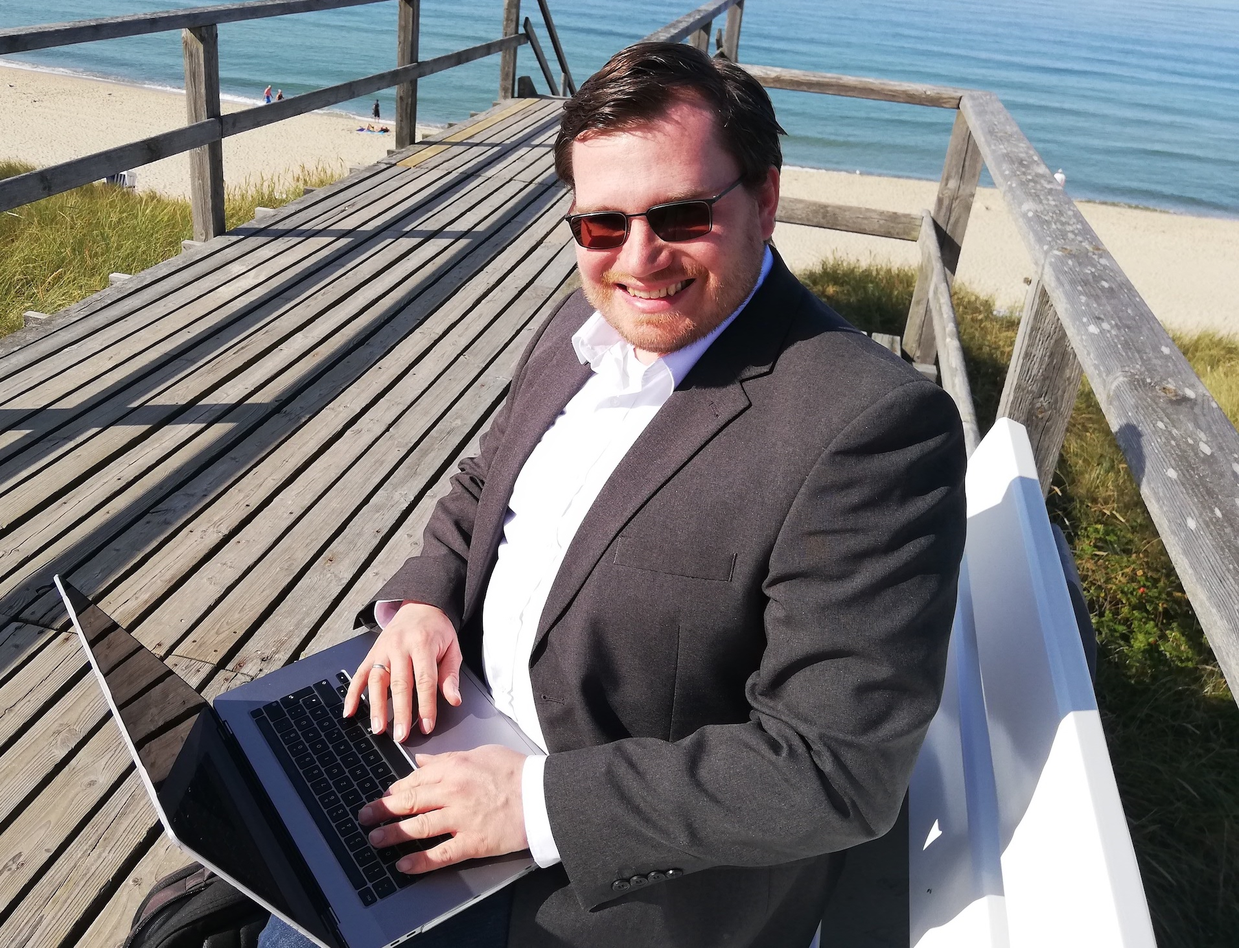
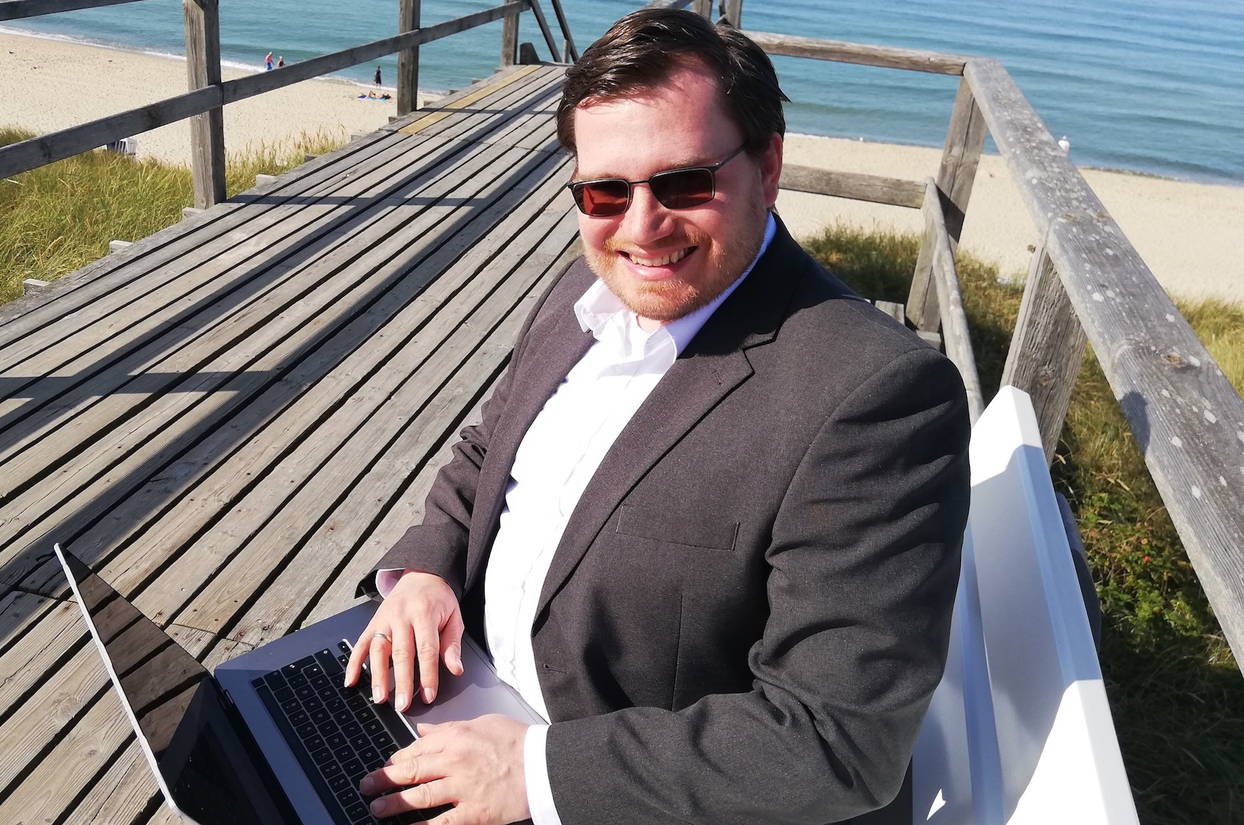
Improvements mainly for seo and accessibility

diff --git a/en/index.html b/en/index.html
@@ -5,7 +5,7 @@
   <meta charset="utf-8">
   <meta content="width=device-width, initial-scale=1.0" name="viewport">
   <title>David A J Lee BSc(Hons) PhD</title>
-  <meta content="" name="description">
+  <meta name="description" content="Originally from Scotland, I moved to Germany in 2010. Since 2018, I have dual nationality. I graduated with a PhD in Computing Science in 2010 building upon a BSc(Hons) in Computing for Business and E-Commerce from 2006. I am a software developer, architect, product owner and team lead/coach with +19 years of experience in software development from requirements through an initial concept and minimum viable products to a great product for the customer. I believe in developing others to reach their potential through coaching and leadership roles.">
   <meta content="" name="keywords">
 
   <!-- Favicons -->
@@ -45,10 +45,10 @@
     </a>
 
     <div class="social-links text-center">
-      <a href="https://www.github.com/daveajlee" class="github"><i class="bi bi-github"></i></a>
-      <a href="https://open.spotify.com/show/0rmI1Y4Cgk0c8YqhV5MjoM" class="spotify"><i class="bi bi-spotify"></i></a>
-      <a href="https://www.youtube.com/channel/UCAvevAq4cnQTxbGsQKL3YSw" class="youtube"><i class="bi bi-youtube"></i></a>
-      <a href="https://de.linkedin.com/in/david-lee-995a64b4" class="linkedin"><i class="bi bi-linkedin"></i></a>
+      <a href="https://www.github.com/daveajlee" aria-label="GitHub Profile" class="github"><i class="bi bi-github"></i></a>
+      <a href="https://open.spotify.com/show/0rmI1Y4Cgk0c8YqhV5MjoM" aria-label="Spotify Profile" class="spotify"><i class="bi bi-spotify"></i></a>
+      <a href="https://www.youtube.com/channel/UCAvevAq4cnQTxbGsQKL3YSw" aria-label="YouTube Profile" class="youtube"><i class="bi bi-youtube"></i></a>
+      <a href="https://de.linkedin.com/in/david-lee-995a64b4" aria-label="LinkedIn Profile" class="linkedin"><i class="bi bi-linkedin"></i></a>
     </div>
 
     <nav id="navmenu" class="navmenu">
@@ -97,7 +97,7 @@
     <!-- Hero Section -->
     <section id="hero" class="hero section dark-background">
 
-      <img src="../common/assets/img/hero-bg.jpg" alt="" data-aos="fade-in" class="">
+      <img src="../common/assets/img/hero-bg-main.jpg" alt="" data-aos="fade-in" class="">
 
       <div class="container" data-aos="fade-up" data-aos-delay="100">
         <h2>David A J Lee BSc(Hons) PhD</h2>
@@ -231,21 +231,21 @@
             <div class="progress">
               <span class="skill"><span>Java & Spring Framework</span> <i class="val">100%</i></span>
               <div class="progress-bar-wrap">
-                <div class="progress-bar" role="progressbar" aria-valuenow="100" aria-valuemin="0" aria-valuemax="100"></div>
+                <div class="progress-bar" role="progressbar" aria-label="Java & Spring Framework" aria-valuenow="100" aria-valuemin="0" aria-valuemax="100"></div>
               </div>
             </div><!-- End Skills Item -->
 
             <div class="progress">
               <span class="skill"><span>Project Management Tools (e.g. Jira, Asana)</span> <i class="val">100%</i></span>
               <div class="progress-bar-wrap">
-                <div class="progress-bar" role="progressbar" aria-valuenow="100" aria-valuemin="0" aria-valuemax="100"></div>
+                <div class="progress-bar" role="progressbar" aria-label="Project Management Tools" aria-valuenow="100" aria-valuemin="0" aria-valuemax="100"></div>
               </div>
             </div><!-- End Skills Item -->
 
             <div class="progress">
               <span class="skill"><span>Web Development (HTML, CSS, Angular, React)</span> <i class="val">95%</i></span>
               <div class="progress-bar-wrap">
-                <div class="progress-bar" role="progressbar" aria-valuenow="95" aria-valuemin="0" aria-valuemax="100"></div>
+                <div class="progress-bar" role="progressbar" aria-label="Web Development" aria-valuenow="95" aria-valuemin="0" aria-valuemax="100"></div>
               </div>
             </div><!-- End Skills Item -->
 
@@ -256,21 +256,21 @@
             <div class="progress">
               <span class="skill"><span>CI/CD Devops (Jenkins, Maven, GitHub ...)</span> <i class="val">95%</i></span>
               <div class="progress-bar-wrap">
-                <div class="progress-bar" role="progressbar" aria-valuenow="95" aria-valuemin="0" aria-valuemax="100"></div>
+                <div class="progress-bar" role="progressbar" aria-label="CI/CD Devops" aria-valuenow="95" aria-valuemin="0" aria-valuemax="100"></div>
               </div>
             </div><!-- End Skills Item -->
 
             <div class="progress">
               <span class="skill"><span>App Development (React Native, Flutter, Swift)</span> <i class="val">90%</i></span>
               <div class="progress-bar-wrap">
-                <div class="progress-bar" role="progressbar" aria-valuenow="90" aria-valuemin="0" aria-valuemax="100"></div>
+                <div class="progress-bar" role="progressbar" aria-label="App Development" aria-valuenow="90" aria-valuemin="0" aria-valuemax="100"></div>
               </div>
             </div><!-- End Skills Item -->
 
             <div class="progress">
               <span class="skill"><span>Cloud Computing (AWS, Azure, Google Cloud)</span> <i class="val">90%</i></span>
               <div class="progress-bar-wrap">
-                <div class="progress-bar" role="progressbar" aria-valuenow="90" aria-valuemin="0" aria-valuemax="100"></div>
+                <div class="progress-bar" role="progressbar" aria-label="Cloud Computing" aria-valuenow="90" aria-valuemin="0" aria-valuemax="100"></div>
               </div>
             </div><!-- End Skills Item -->
 
@@ -300,13 +300,13 @@
 
               <div class="resume-item">
                 <h4>Software Developer</h4>
-                <h5>August 2025 - Present</h5>
+                <p class="cv-years-line">August 2025 - Present</p>
                 <p><em>Sinfonie GmbH & Co. KG, Hennigsdorf, Germany </em></p>
               </div><!-- Edn Resume Item -->
 
               <div class="resume-item">
                 <h4>Team Lead Software Development (& Developer)</h4>
-                <h5>July 2022 - July 2025</h5>
+                <p class="cv-years-line">July 2022 - July 2025</p>
                 <p><em>Smedo GmbH, Hennigsdorf, Germany </em></p>
                 <ul>
                   <li>Development of Mobile Apps, Cloud Infrastructure & Microservices for communication with IOT devices.</li>
@@ -316,7 +316,7 @@
 
               <div class="resume-item">
                 <h4>Interim Team Lead Product Management</h4>
-                <h5>January 2022 - June 2022</h5>
+                <p class="cv-years-line">January 2022 - June 2022</p>
                 <p><em>myToys.de GmbH, Berlin, Germany</em></p>
                 <ul>
                   <li>People Leadership responsibilities for team of Product Managers.</li>
@@ -325,7 +325,7 @@
 
               <div class="resume-item">
                 <h4>Senior Product Manager</h4>
-                <h5>July 2020 - June 2022</h5>
+                <p class="cv-years-line">July 2020 - June 2022</p>
                 <p><em>myToys.de GmbH, Berlin, Germany</em></p>
                 <ul>
                   <li>Responsible for search, checkout and product data systems.</li>
@@ -334,7 +334,7 @@
 
               <div class="resume-item">
                 <h4>Product Manager</h4>
-                <h5>February 2018 - June 2020</h5>
+                <p class="cv-years-line">February 2018 - June 2020</p>
                 <p><em>myToys.de GmbH, Berlin, Germany</em></p>
                 <ul>
                   <li>Customer-centric development of Content Management System.</li>
@@ -343,7 +343,7 @@
 
               <div class="resume-item">
                 <h4>Software Architect</h4>
-                <h5>July 2014 - January 2018</h5>
+                <p class="cv-years-line">July 2014 - January 2018</p>
                 <p><em>myToys.de GmbH, Berlin, Germany</em></p>
                 <ul>
                   <li>60% technical leadership, vision, roadmap, standards</li>
@@ -360,7 +360,7 @@
 
             <div class="resume-item">
               <h4>Software Developer</h4>
-              <h5>August 2010 - July 2014</h5>
+              <p class="cv-years-line">August 2010 - July 2014</p>
               <p><em>myToys.de GmbH, Berlin, Germany</em></p>
               <ul>
                 <li>Backend Java + Spring developer for Coupons and recruitment.</li>
@@ -370,7 +370,7 @@
             <h3 class="resume-title">Education</h3>
             <div class="resume-item">
               <h4>Certified Professional Software Architect (Foundation Level)</h4>
-              <h5>2015</h5>
+              <p class="cv-years-line">2015</p>
               <p><em>Hamburg, Germany</em></p>
               <p>Topics included: foundations of software architectures, components/building blocks, interfaces, architectural goals,
               quality goals and tools</p>
@@ -378,7 +378,7 @@
 
             <div class="resume-item">
               <h4>Doctor of Philosophy in Computing</h4>
-              <h5>2006 - 2010</h5>
+              <p class="cv-years-line">2006 - 2010</p>
               <p><em>The Robert Gordon University, Aberdeen, Scotland</em></p>
               <p>Thesis title: Hybrid Algorithms for Distributed Constraint Satisfaction. In
                 my doctoral research, I investigated and developed hybrid algorithms
@@ -391,7 +391,7 @@
             <div class="resume-item">
               <h4> Bachelor of Science with 1st Class Honours in
                 Computing for Business and E-Commerce</h4>
-              <h5>2002 - 2010</h5>
+              <p class="cv-years-line">2002 - 2010</p>
               <p><em>The Robert Gordon University, Aberdeen, Scotland</em></p>
               <p>This degree combined a standard Computing Science degree with
                 several business modules such as Marketing, Accounting and Change

diff --git a/de/index.html b/de/index.html
@@ -5,7 +5,7 @@
   <meta charset="utf-8">
   <meta content="width=device-width, initial-scale=1.0" name="viewport">
   <title>David A J Lee BSc(Hons) PhD</title>
-  <meta content="" name="description">
+  <meta name="description" content="Ursprünglich komme ich aus Schottland. Seit 2010 wohne ich in Deutschland und seit 2018 besitzte ich die doppelte Staatsangehörigkeit: Deutsch und Britisch. Im März 2010 habe ich meine Doktorarbeit (in Informatik) bestanden. Davor habe ich 2006 meinen Bachelor in Informatik für Wirtschaft und Electronic Commerce mit Auszeichnung (beste Note) abgeschlossen. Ich habe über 19 Jahre Erfahrung in der Softwareentwicklung. Ich habe nicht nur als Softwareentwickler, sondern auch als Softwarearchitekt, Product Owner und Teamleiter gearbeitet und kann damit viele Fähigkeiten rund um Softwareentwicklung anbieten.">
   <meta content="" name="keywords">
 
   <!-- Favicons -->
@@ -45,10 +45,10 @@
   </a>
 
   <div class="social-links text-center">
-    <a href="https://www.github.com/daveajlee" class="github"><i class="bi bi-github"></i></a>
-    <a href="https://open.spotify.com/show/0rmI1Y4Cgk0c8YqhV5MjoM" class="spotify"><i class="bi bi-spotify"></i></a>
-    <a href="https://www.youtube.com/channel/UCAvevAq4cnQTxbGsQKL3YSw" class="youtube"><i class="bi bi-youtube"></i></a>
-    <a href="https://de.linkedin.com/in/david-lee-995a64b4" class="linkedin"><i class="bi bi-linkedin"></i></a>
+    <a href="https://www.github.com/daveajlee" aria-label="GitHub Profil" class="github"><i class="bi bi-github"></i></a>
+    <a href="https://open.spotify.com/show/0rmI1Y4Cgk0c8YqhV5MjoM" aria-label="Spotify Profil" class="spotify"><i class="bi bi-spotify"></i></a>
+    <a href="https://www.youtube.com/channel/UCAvevAq4cnQTxbGsQKL3YSw" aria-label="YouTube Profil" class="youtube"><i class="bi bi-youtube"></i></a>
+    <a href="https://de.linkedin.com/in/david-lee-995a64b4" aria-label="LinkedIn Profil" class="linkedin"><i class="bi bi-linkedin"></i></a>
   </div>
 
   <nav id="navmenu" class="navmenu">
@@ -97,7 +97,7 @@
   <!-- Hero Section -->
   <section id="hero" class="hero section dark-background">
 
-    <img src="../common/assets/img/hero-bg.jpg" alt="" data-aos="fade-in" class="">
+    <img src="../common/assets/img/hero-bg-main.jpg" alt="" data-aos="fade-in" class="">
 
     <div class="container" data-aos="fade-up" data-aos-delay="100">
       <h2>David A J Lee BSc(Hons) PhD</h2>
@@ -235,21 +235,21 @@
           <div class="progress">
             <span class="skill"><span>Java & Spring Framework</span> <i class="val">100%</i></span>
             <div class="progress-bar-wrap">
-              <div class="progress-bar" role="progressbar" aria-valuenow="100" aria-valuemin="0" aria-valuemax="100"></div>
+              <div class="progress-bar" role="progressbar" aria-label="Java & Spring Framework" aria-valuenow="100" aria-valuemin="0" aria-valuemax="100"></div>
             </div>
           </div><!-- End Skills Item -->
 
           <div class="progress">
             <span class="skill"><span>Projektmanagement Werkzeuge (Jira, Asana)</span> <i class="val">100%</i></span>
             <div class="progress-bar-wrap">
-              <div class="progress-bar" role="progressbar" aria-valuenow="100" aria-valuemin="0" aria-valuemax="100"></div>
+              <div class="progress-bar" role="progressbar" aria-label="Projektmanagement Werkzeuge" aria-valuenow="100" aria-valuemin="0" aria-valuemax="100"></div>
             </div>
           </div><!-- End Skills Item -->
 
           <div class="progress">
             <span class="skill"><span>Webentwicklung (HTML, CSS, Angular, React)</span> <i class="val">95%</i></span>
             <div class="progress-bar-wrap">
-              <div class="progress-bar" role="progressbar" aria-valuenow="95" aria-valuemin="0" aria-valuemax="100"></div>
+              <div class="progress-bar" role="progressbar" aria-label="Webentwicklung" aria-valuenow="95" aria-valuemin="0" aria-valuemax="100"></div>
             </div>
           </div><!-- End Skills Item -->
 
@@ -260,21 +260,21 @@
           <div class="progress">
             <span class="skill"><span>CI/CD Devops (Jenkins, Maven, GitHub...)</span> <i class="val">95%</i></span>
             <div class="progress-bar-wrap">
-              <div class="progress-bar" role="progressbar" aria-valuenow="95" aria-valuemin="0" aria-valuemax="100"></div>
+              <div class="progress-bar" role="progressbar" aria-label="CI/CD Devops" aria-valuenow="95" aria-valuemin="0" aria-valuemax="100"></div>
             </div>
           </div><!-- End Skills Item -->
 
           <div class="progress">
             <span class="skill"><span>Appentwicklung (React Native, Flutter, Swift)</span> <i class="val">90%</i></span>
             <div class="progress-bar-wrap">
-              <div class="progress-bar" role="progressbar" aria-valuenow="90" aria-valuemin="0" aria-valuemax="100"></div>
+              <div class="progress-bar" role="progressbar" aria-label="Appentwicklung" aria-valuenow="90" aria-valuemin="0" aria-valuemax="100"></div>
             </div>
           </div><!-- End Skills Item -->
 
           <div class="progress">
             <span class="skill"><span>Cloud Infrastruktur (AWS, Azure, Google Cloud)</span> <i class="val">90%</i></span>
             <div class="progress-bar-wrap">
-              <div class="progress-bar" role="progressbar" aria-valuenow="90" aria-valuemin="0" aria-valuemax="100"></div>
+              <div class="progress-bar" role="progressbar" aria-label="Cloud Infrastruktur" aria-valuenow="90" aria-valuemin="0" aria-valuemax="100"></div>
             </div>
           </div><!-- End Skills Item -->
 
@@ -304,13 +304,13 @@
 
           <div class="resume-item">
             <h4>Softwareentwickler</h4>
-            <h5>August 2025 - </h5>
+            <p class="cv-years-line">August 2025 - </p>
             <p><em>Sinfonie GmbH & Co. KG, Hennigsdorf, Deutschland </em></p>
           </div><!-- Edn Resume Item -->
 
           <div class="resume-item">
             <h4>Teamleiter Software Entwicklung (& Entwickler)</h4>
-            <h5>Juli 2022 - Juli 2025</h5>
+            <p class="cv-years-line">Juli 2022 - Juli 2025</p>
             <p><em>Smedo GmbH, Hennigsdorf, Deutschland </em></p>
             <ul>
               <li>Entwicklung von Mobilen Apps, Cloud Infrastruktur und Microservices für Kommunikation mit IOT-Geräten.</li>
@@ -320,7 +320,7 @@
 
           <div class="resume-item">
             <h4>Interim Teamleiter Produktmanagement</h4>
-            <h5>Januar 2022 - Juni 2022</h5>
+            <p class="cv-years-line">Januar 2022 - Juni 2022</p>
             <p><em>myToys.de GmbH, Berlin, Deutschland</em></p>
             <ul>
               <li>Disziplinarische und fachliche Führung mehrerer Produktmanager.</li>
@@ -329,7 +329,7 @@
 
           <div class="resume-item">
             <h4>Senior Produktmanager</h4>
-            <h5>Juli 2020 - Juni 2022</h5>
+            <p class="cv-years-line">Juli 2020 - Juni 2022</p>
             <p><em>myToys.de GmbH, Berlin, Deutschland</em></p>
             <ul>
               <li>Zuständig für die Suche, Checkout und Produktdaten Systeme.</li>
@@ -338,7 +338,7 @@
 
           <div class="resume-item">
             <h4>Produktmanager</h4>
-            <h5>Februar 2018 - Juni 2020</h5>
+            <p class="cv-years-line">Februar 2018 - Juni 2020</p>
             <p><em>myToys.de GmbH, Berlin, Deutschland</em></p>
             <ul>
               <li>Kundenzentriert Produktentwicklung und Benchmarking für das Content Management System.</li>
@@ -347,7 +347,7 @@
 
           <div class="resume-item">
             <h4>Softwarearchitekt</h4>
-            <h5>Juli 2014 - Januar 2018</h5>
+            <p class="cv-years-line">Juli 2014 - Januar 2018</p>
             <p><em>myToys.de GmbH, Berlin, Deutschland</em></p>
             <ul>
               <li>60% technische Führung (Vision, Roadmap, Projekten)</li>
@@ -365,7 +365,7 @@
 
           <div class="resume-item">
             <h4>Softwareentwickler</h4>
-            <h5>August 2010 - Juli 2014</h5>
+            <p class="cv-years-line">August 2010 - Juli 2014</p>
             <p><em>myToys.de GmbH, Berlin, Deutschland</em></p>
             <ul>
               <li>Backend Java + Spring Entwickler für Gutscheine und Bewerbung.</li>
@@ -375,7 +375,7 @@
           <h3 class="resume-title">Education</h3>
           <div class="resume-item">
             <h4>Certified Professional Software Architect (Foundation Level)</h4>
-            <h5>2015</h5>
+            <p class="cv-years-line">2015</p>
             <p><em>Hamburg, Deutschland</em></p>
             <p>Themen: Grundlagen von Software-Architekturen,
               Komponenten/Bausteine, Schnittstellen/Beziehungen, Architekturziele,
@@ -384,7 +384,7 @@
 
           <div class="resume-item">
             <h4>Doctor of Philosophy in Informatik</h4>
-            <h5>2006 - 2010</h5>
+            <p class="cv-years-line">2006 - 2010</p>
             <p><em>The Robert Gordon University, Aberdeen, Schottland</em></p>
             <p>Doktorarbeit Titel: Hybrid Algorithms for Distributed Constraint
               Satisfaction. In meiner Doktorarbeit habe ich Algorithmen für
@@ -396,7 +396,7 @@
           <div class="resume-item">
             <h4> Bachelor of Science with 1st Class Honours in
               Informatik für Wirtschaft und E-Commerce</h4>
-            <h5>2002 - 2010</h5>
+            <p class="cv-years-line">2002 - 2010</p>
             <p><em>The Robert Gordon University, Aberdeen, Schottland</em></p>
             <p>Dieser Abschluss ist ein Informatik Abschluss der mit mehreren
               Wirtschafts Modulen kombiniert ist. Einige Beispiele von den

diff --git a/common/assets/css/main.css b/common/assets/css/main.css
@@ -744,6 +744,14 @@ section,
   margin-bottom: 10px;
 }
 
+.resume .resume-item .cv-years-line {
+    font-size: 16px;
+    padding: 5px 15px;
+    display: inline-block;
+    font-weight: bold;
+    margin-bottom: 10px;
+}
+
 .resume .resume-item ul {
   padding-left: 20px;
 }
